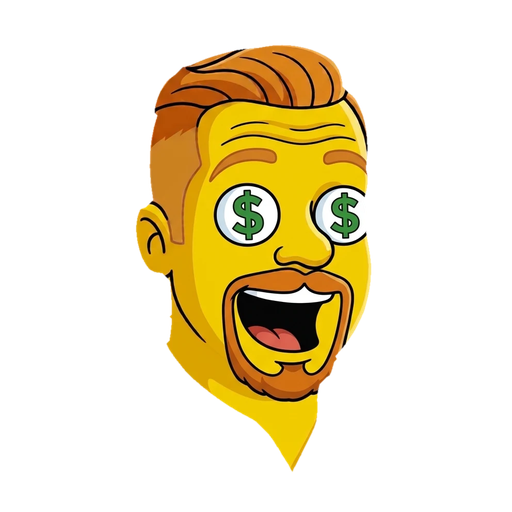
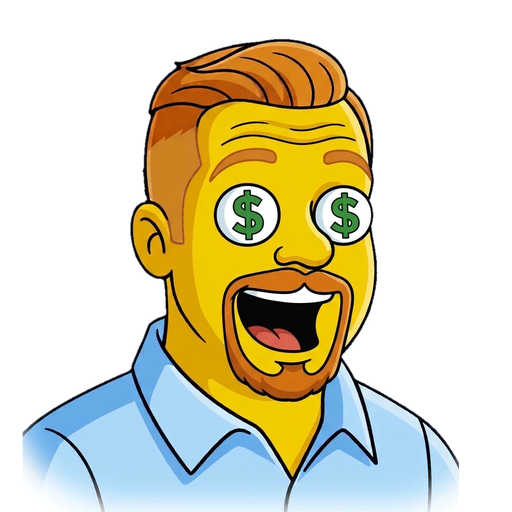
Cleaner mascot portraits: no eyelid bump, no stray sky, kaching keeps the shirt

Changed region(s): [[0.0312, 0.0625, 0.9062, 1.0], [0.6562, 0.125, 0.75, 0.6562]]

diff --git a/index.html b/index.html
@@ -285,9 +285,9 @@ function mergePeople(S,from,to){
 // </core>
 
 /* ======================= APP ======================= */
-const APP_VERSION=25; // build number (= sw.js cache shranck-shell-vN); users see the label
+const APP_VERSION=26; // build number (= sw.js cache shranck-shell-vN); users see the label
 const APP_LABEL='1.5';
-const PATCH_NOTES=[{v:25,label:'1.5',date:'2026-11-10',title:'Pick a date',notes:['Admin: delivery and order-by dates now use a calendar picker','Order page: removed the tiny up/down arrows in the quantity boxes — use − / +','Try ordering half of something that only comes whole. Go on.']},{v:21,label:'1.4',date:'2026-11-10',title:'He’s watching you',notes:['New unimpressed photo on the Help page','Photos no longer open bigger when you click them','On big desktop screens, two giant mascots watch you from the sides of the Order page','Their eyes follow your mouse wherever it goes, and they blink']},{v:17,label:'1.3',date:'2026-11-10',title:'Table view + locking',notes:['Bigger logo — tap it to see it full size','Home-screen icon is now the logo too','App name is now Schrank App',"Tap “🔒 I'm done” at the bottom to lock your order; tap Unlock to change it, until the admin locks everyone",'Admin: “Lock everyone” button at the top, and a 🔒 next to people who are done','Order page: switch between Cards and a compact Table view (top right)','Table shows price, per-unit cost, your order, your cost and case status in one row per item','Your choice is remembered on this device']},{v:10,label:'1.2',date:'2026-11-10',title:'Nicer buttons + safer admin',notes:['Quantity − / + buttons are evenly spaced, with symbols drawn perfectly centered','Buttons animate when you hover or press them','Admin: view-only until you tap Edit, so nothing changes by accident','Admin: “+ New round” button next to the round picker','Order page: removed the round label so the menu starts higher','Admin button shows 🔒 when admin is off and 🔓 when it’s on','Admin: shortfalls no longer highlighted yellow','Cleaner layout: a taller top bar with the tabs in it, lined up with the page']},{v:3,label:'1.1',date:'2026-11-10',title:'Order history',notes:['New logo in the header (tab title stays Schrank App)','Admin: new History tab shows who ordered each item first, plus every change with its time','Admin: the case-gap fixer now lists people earliest-first, so first in keeps priority']},{v:1,label:'1.0',date:'2026-11-10',title:'First release',notes:['Pick your name once, then enter what you want per item','See your estimated cost and the delivery date','Live case tracker shows when an item lines up to full cases','Admin: set up rounds, resolve case gaps, lock, and export to Excel']}];
+const PATCH_NOTES=[{v:26,label:'1.5',date:'2026-11-10',title:'Pick a date',notes:['Admin: delivery and order-by dates now use a calendar picker','Order page: removed the tiny up/down arrows in the quantity boxes — use − / +','Try ordering half of something that only comes whole. Go on.']},{v:21,label:'1.4',date:'2026-11-10',title:'He’s watching you',notes:['New unimpressed photo on the Help page','Photos no longer open bigger when you click them','On big desktop screens, two giant mascots watch you from the sides of the Order page','Their eyes follow your mouse wherever it goes, and they blink']},{v:17,label:'1.3',date:'2026-11-10',title:'Table view + locking',notes:['Bigger logo — tap it to see it full size','Home-screen icon is now the logo too','App name is now Schrank App',"Tap “🔒 I'm done” at the bottom to lock your order; tap Unlock to change it, until the admin locks everyone",'Admin: “Lock everyone” button at the top, and a 🔒 next to people who are done','Order page: switch between Cards and a compact Table view (top right)','Table shows price, per-unit cost, your order, your cost and case status in one row per item','Your choice is remembered on this device']},{v:10,label:'1.2',date:'2026-11-10',title:'Nicer buttons + safer admin',notes:['Quantity − / + buttons are evenly spaced, with symbols drawn perfectly centered','Buttons animate when you hover or press them','Admin: view-only until you tap Edit, so nothing changes by accident','Admin: “+ New round” button next to the round picker','Order page: removed the round label so the menu starts higher','Admin button shows 🔒 when admin is off and 🔓 when it’s on','Admin: shortfalls no longer highlighted yellow','Cleaner layout: a taller top bar with the tabs in it, lined up with the page']},{v:3,label:'1.1',date:'2026-11-10',title:'Order history',notes:['New logo in the header (tab title stays Schrank App)','Admin: new History tab shows who ordered each item first, plus every change with its time','Admin: the case-gap fixer now lists people earliest-first, so first in keeps priority']},{v:1,label:'1.0',date:'2026-11-10',title:'First release',notes:['Pick your name once, then enter what you want per item','See your estimated cost and the delivery date','Live case tracker shows when an item lines up to full cases','Admin: set up rounds, resolve case gaps, lock, and export to Excel']}];
 let S,ME=null,ADM=false,ADM_RID=null,ADM_TAB='grid',ADM_EDIT=false,ORDER_VIEW=(()=>{try{return localStorage.getItem('shranck_view')==='table'?'table':'cards'}catch(e){return 'cards'}})(),TAB='order',pending=null,viewBrk=false;
 // READY: first remote snapshot seen, or local-only fallback (sync error / no snapshot within 4s). remoteLoaded: a real snapshot arrived.
 let READY=false,remoteLoaded=false,NAME_OPEN=false,PENDING_PIN=null,QUEUE=new Set();

diff --git a/sw.js b/sw.js
@@ -1,4 +1,4 @@
-const CACHE='shranck-shell-v25';
+const CACHE='shranck-shell-v26';
 self.addEventListener('install',e=>{e.waitUntil(caches.open(CACHE).then(c=>c.addAll(['./','index.html','manifest.webmanifest','icon.svg','icon-192.png','icon-512.png','favicon.ico','favicon.png','logo.png','logo-512.jpg','mascot.png','help-512.jpg','kaching.png','unimpressed.png','angry-512.jpg','icon-mask-192.png','icon-mask-512.png','apple-touch-icon.png']).catch(()=>{})));self.skipWaiting()});
 self.addEventListener('activate',e=>{e.waitUntil(caches.keys().then(k=>Promise.all(k.filter(x=>x!==CACHE).map(x=>caches.delete(x)))).then(()=>self.clients.claim()))});
 self.addEventListener('fetch',e=>{
